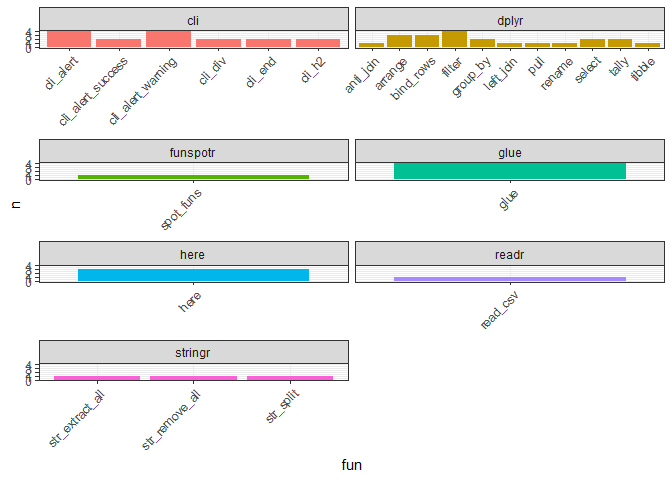
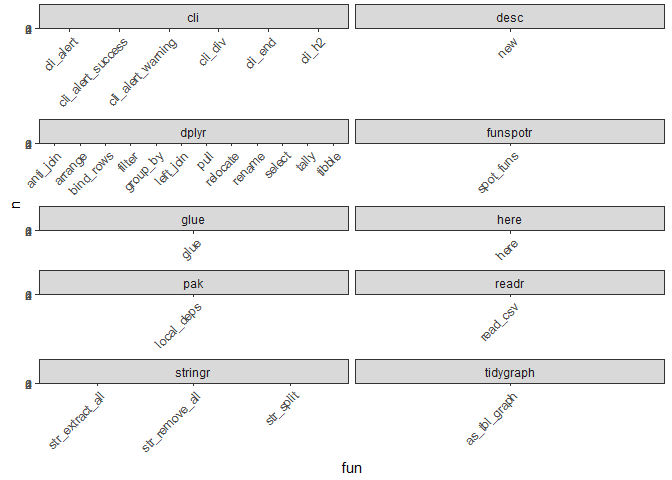
Added documentation

diff --git a/README.md b/README.md
@@ -45,12 +45,20 @@ checkDependencies()
 #> 
 #> ── Checking if packages in Imports and Depends have been approved ──
 #> 
-#> ! Found 4 packages in Imports and Depends that are not
+#> ! Found 12 packages in Imports and Depends that are not
 #> approved
 #> →   1) desc
-#> →   2) funspotr
-#> →   3) here
-#> →   4) readr
+#> →   2) DT
+#> →   3) funspotr
+#> →   4) ggplot2
+#> →   5) ggraph
+#> →   6) here
+#> →   7) igraph
+#> →   8) readr
+#> →   9) shiny
+#> →   10) shinyAce
+#> →   11) shinyjs
+#> →   12) tidygraph
 #> ! Please open an issue at https://github.com/darwin-eu/IncidencePrevalence
 #> to request approval for packages (one issue per package).
 #> 
@@ -70,16 +78,15 @@ r_files <- list.files(here::here("R"))
 function_use <- summariseFunctionUse(r_files)
 
 head(function_use)
-#> # A tibble: 6 × 5
-#> # Groups:   fun, pkg, line [6]
-#>   fun       pkg      line r_file                     n
-#>   <chr>     <chr>   <int> <chr>                  <int>
-#> 1 list      unknown   101 checkDependencies.R        2
-#> 2 anti_join dplyr      32 checkDependencies.R        1
-#> 3 arrange   dplyr      23 summariseFunctionUse.R     1
-#> 4 arrange   dplyr      36 checkDependencies.R        1
-#> 5 arrange   dplyr     140 summariseFunctionUse.R     1
-#> 6 bind_rows dplyr      20 summariseFunctionUse.R     1
+#> # A tibble: 6 × 4
+#>   r_file               line pkg   fun      
+#>   <chr>               <int> <chr> <chr>    
+#> 1 checkDependencies.R    27 base  function 
+#> 2 checkDependencies.R    29 dplyr filter   
+#> 3 checkDependencies.R    29 base  is.na    
+#> 4 checkDependencies.R    30 dplyr rename   
+#> 5 checkDependencies.R    31 dplyr left_join
+#> 6 checkDependencies.R    33 base  c
 ```
 
 ``` r
@@ -88,8 +95,10 @@ function_sub <- function_use %>%
   filter(pkg != "base") %>% 
   filter(pkg != "methods")
 
+fun_counts <- function_sub %>% group_by(fun, pkg, name = "n") %>% tally()
+
 ggplot(
-  data = function_sub, 
+  data = fun_counts, 
   mapping = aes(x = fun, y = n, fill = pkg)) +
   geom_col() +
   facet_wrap(
@@ -103,3 +112,17 @@ ggplot(
 ```
 
 <img src="man/figures/README-unnamed-chunk-5-1.png" width="100%" />
+
+## ShinyApp
+
+Dependency Reviewer now includes a shiny app, which encapsulates all the
+functionality available in the package. The app consist of two sections:
+
+1.  Function Review (Function Review and Plot tab)
+
+![Function Review](man/figures/function_review.png) ![Function
+Review](man/figures/plot.png)
+
+2.  Dependency Graph (Dependency Graph tab)
+
+![Dependency Graph](man/figures/dependency_graph.png)
